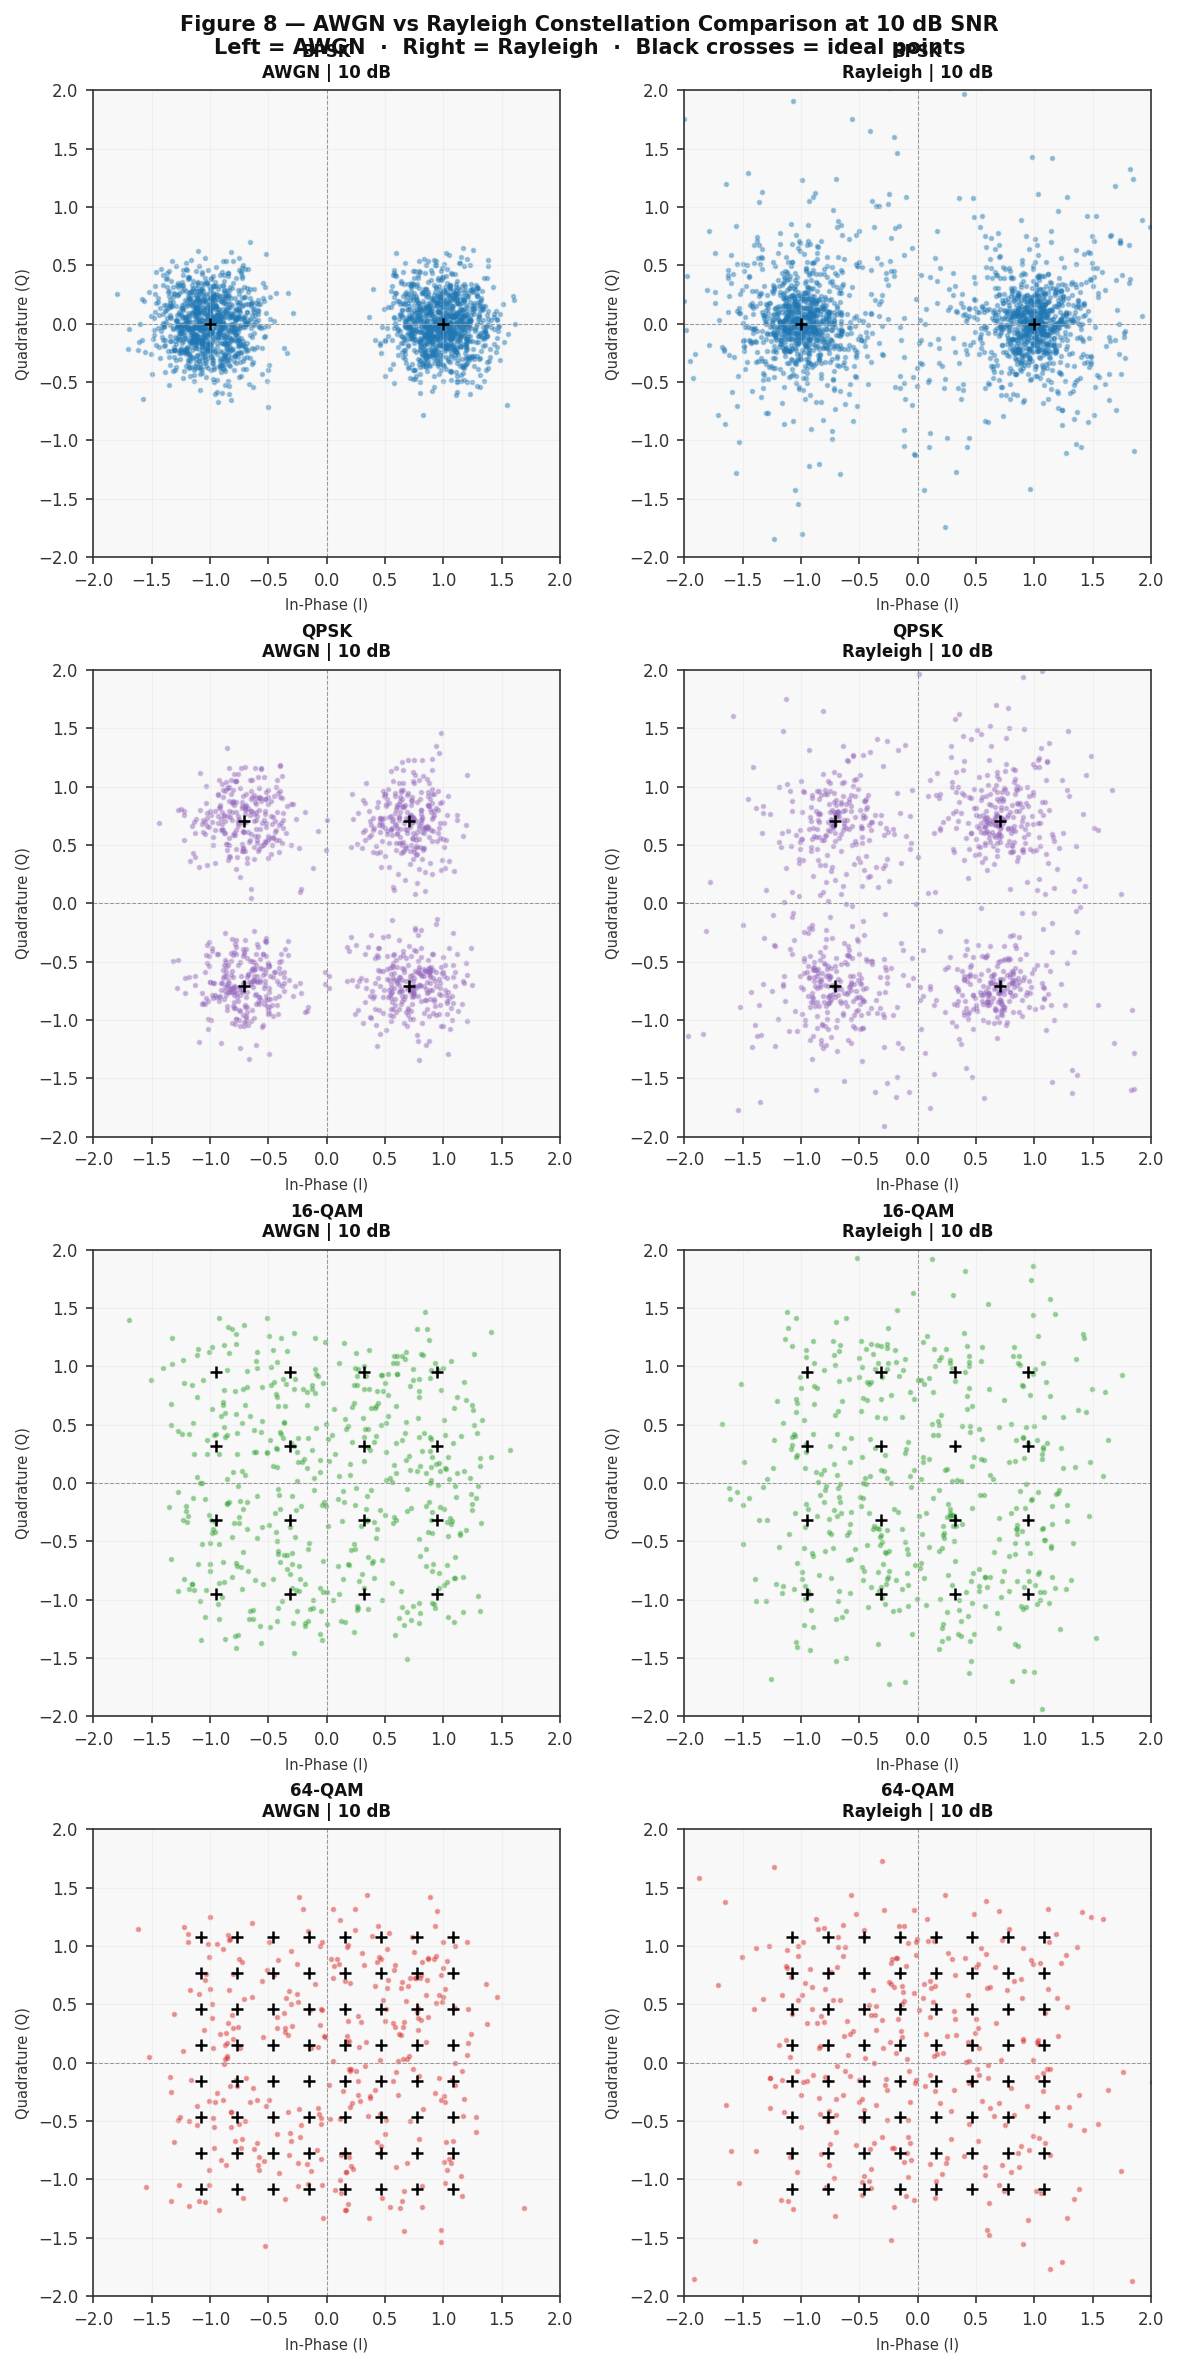
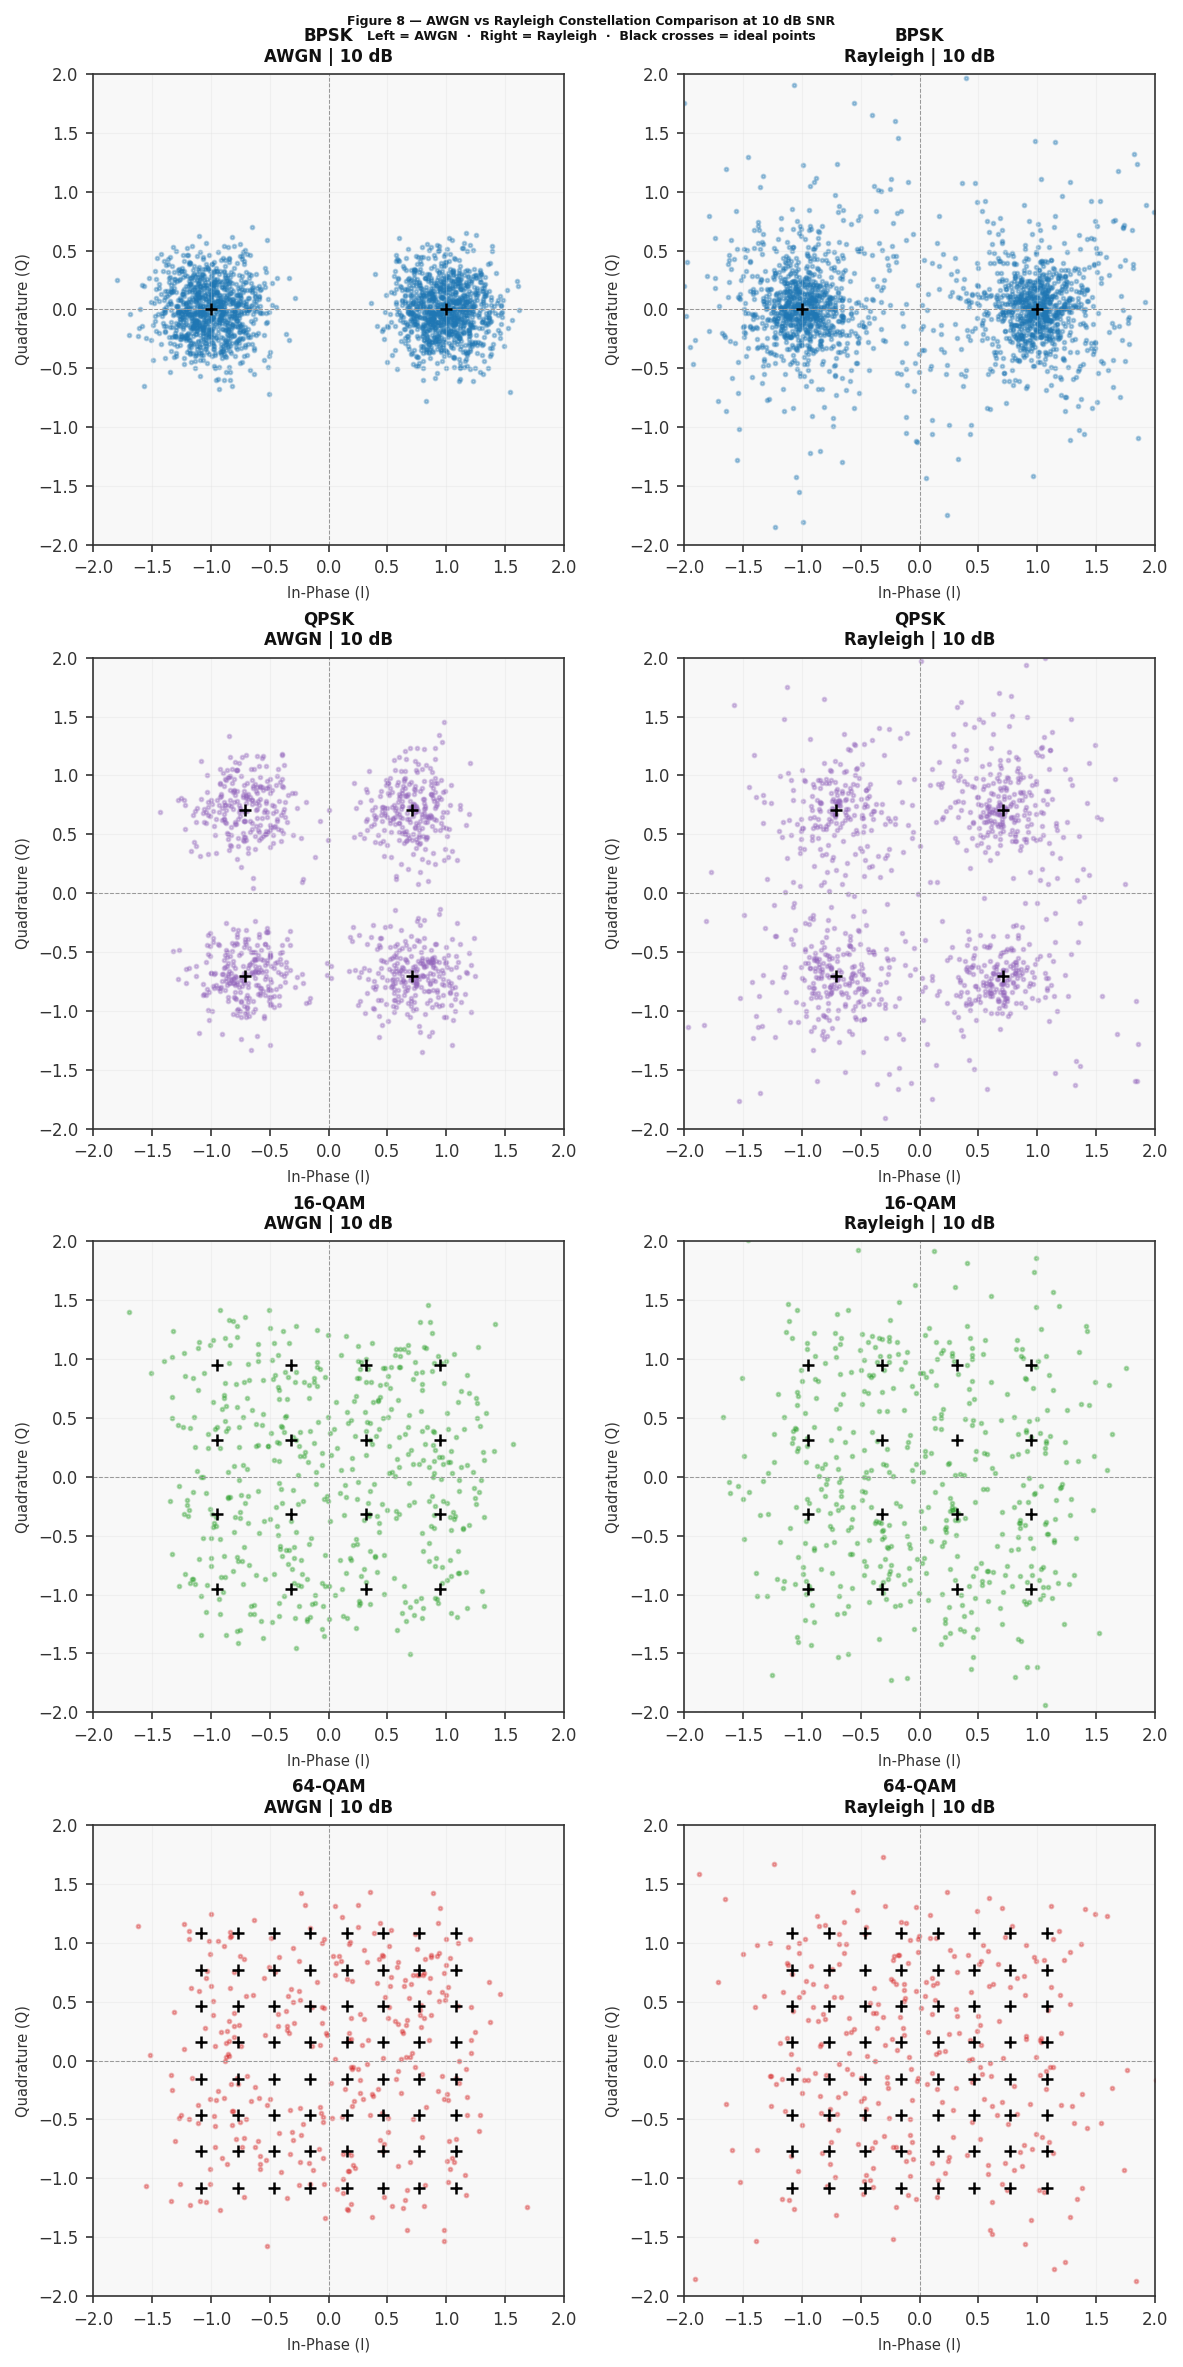
change fontsize of figure 8

diff --git a/simulations/constellation_test.py b/simulations/constellation_test.py
@@ -226,7 +226,7 @@ for row, mod in enumerate(MODS):
 fig.suptitle(
     f"Figure 8 — AWGN vs Rayleigh Constellation Comparison at {SNR_COMPARE} dB SNR\n"
     "Left = AWGN  ·  Right = Rayleigh  ·  Black crosses = ideal points",
-    fontsize=10, fontweight="bold"
+    fontsize=6, fontweight="bold"
 )
 fig.tight_layout()
 p = os.path.join(OUT, "fig8_constellations_snr_compare.png")
